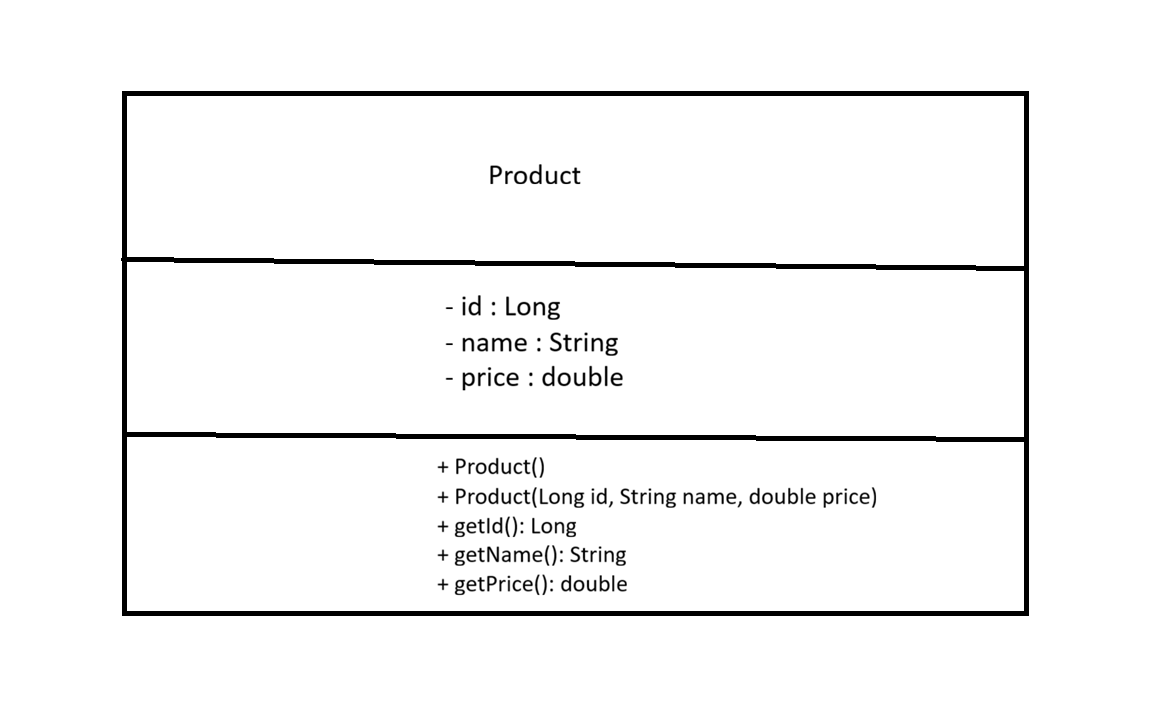
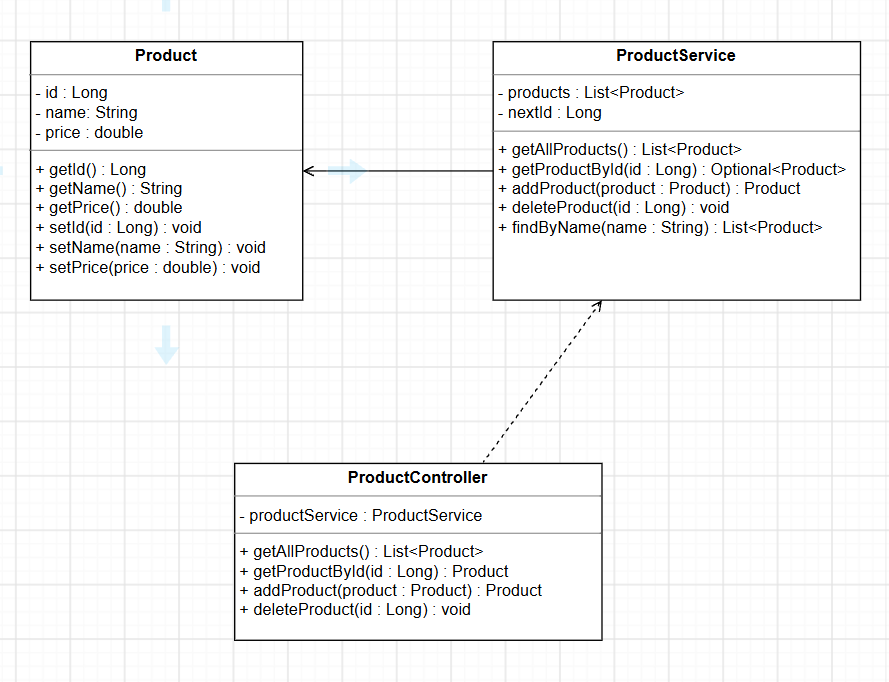
Tutorial 3: ProductService with List - four CRUD endpoints working

diff --git a/products-api/src/main/java/uk/ac/westminster/products_api/ProductController.java b/products-api/src/main/java/uk/ac/westminster/products_api/ProductController.java
@@ -1,15 +1,34 @@
 package uk.ac.westminster.products_api;
 
-import org.springframework.web.bind.annotation.GetMapping;
-import org.springframework.web.bind.annotation.PathVariable;
-import org.springframework.web.bind.annotation.RequestMapping;
-import org.springframework.web.bind.annotation.RestController;
+import org.springframework.beans.factory.annotation.Autowired;
+import org.springframework.web.bind.annotation.*;
+
+import java.util.List;
 
 @RestController
 @RequestMapping("/products")
 public class ProductController {
-    @GetMapping("/{id}")
-    public Product getById(@PathVariable Long id) {
-        return new Product(id, "Laptop", 999.99);
+    @Autowired
+    private ProductService productService;
+
+    @GetMapping("/products")
+    public List<Product> getAllProducts() {
+        return productService.getAllProducts();
+    }
+    @GetMapping("/products/{id}")
+    public Product getProductById(@PathVariable Long id) {
+        return productService.getProductById(id).orElse(null);
+    }
+    @PostMapping("/products")
+    public Product addProduct(@RequestBody Product product) {
+        return productService.addProduct(product);
+    }
+    @DeleteMapping("/products/{id}")
+    public void deleteProduct(@PathVariable Long id) {
+        productService.deleteProduct(id);
+    }
+    @GetMapping("/products/search")
+    public List<Product> search(@RequestParam String name) {
+        return productService.findByName(name);
     }
 }

diff --git a/products-api/src/main/java/uk/ac/westminster/products_api/ProductService.java b/products-api/src/main/java/uk/ac/westminster/products_api/ProductService.java
@@ -1,0 +1,38 @@
+package uk.ac.westminster.products_api;
+
+import org.springframework.stereotype.Service;
+
+import java.util.ArrayList;
+import java.util.List;
+import java.util.Optional;
+
+@Service
+public class ProductService {
+    private List<Product> products = new ArrayList<>();
+    private Long nextId = 1L;
+
+    public List<Product> getAllProducts() {
+        return products;
+    }
+    public Product addProduct(Product product) {
+        product.setId(nextId++); // use the value, then add one
+        products.add(product);
+        return product;
+    }
+
+    public Optional<Product> getProductById(Long id) {
+        return products.stream()
+                .filter(p -> p.getId().equals(id))
+                .findFirst();
+    }
+
+    public void deleteProduct(Long id) {
+        products.removeIf(p -> p.getId().equals(id));
+    }
+
+    public List<Product> findByName(String name) {
+        return products.stream()
+                .filter(p -> p.getName().contains(name))
+                .toList();
+    }
+}

diff --git a/products-api/src/main/java/uk/ac/westminster/products_api/Product.java b/products-api/src/main/java/uk/ac/westminster/products_api/Product.java
@@ -12,6 +12,18 @@ public class Product {
         this.price = price;
     }
 
+    public void setId(Long id) {
+        this.id = id;
+    }
+
+    public void setName(String name) {
+        this.name = name;
+    }
+
+    public void setPrice(double price) {
+        this.price = price;
+    }
+
     public Long getId() { return id; }
     public String getName() { return name; }
     public double getPrice() { return price; }
